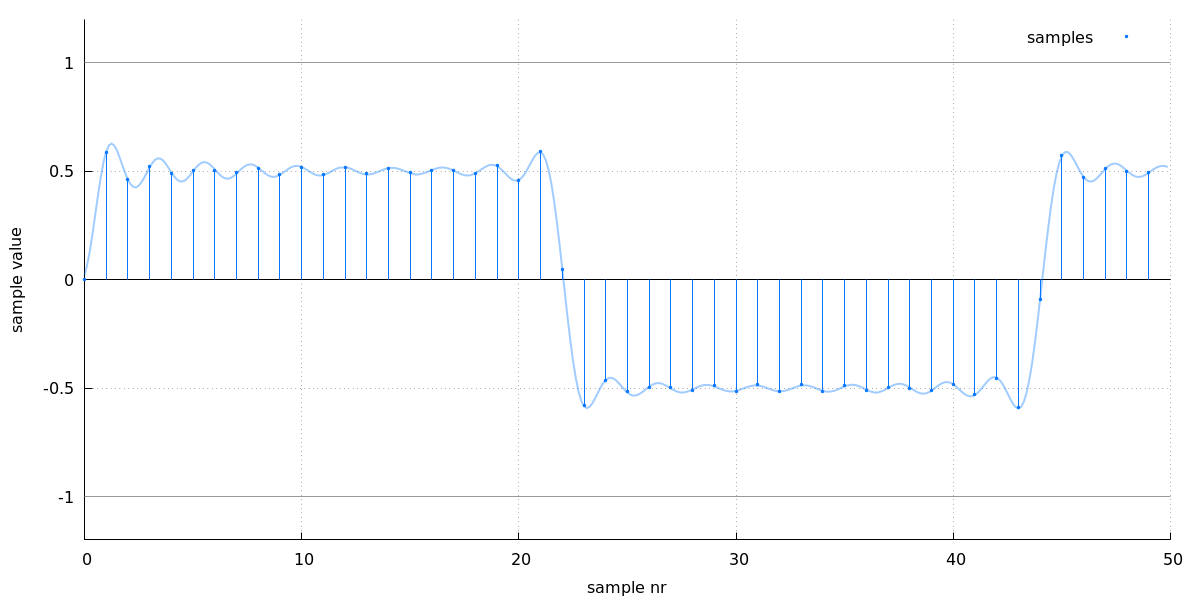
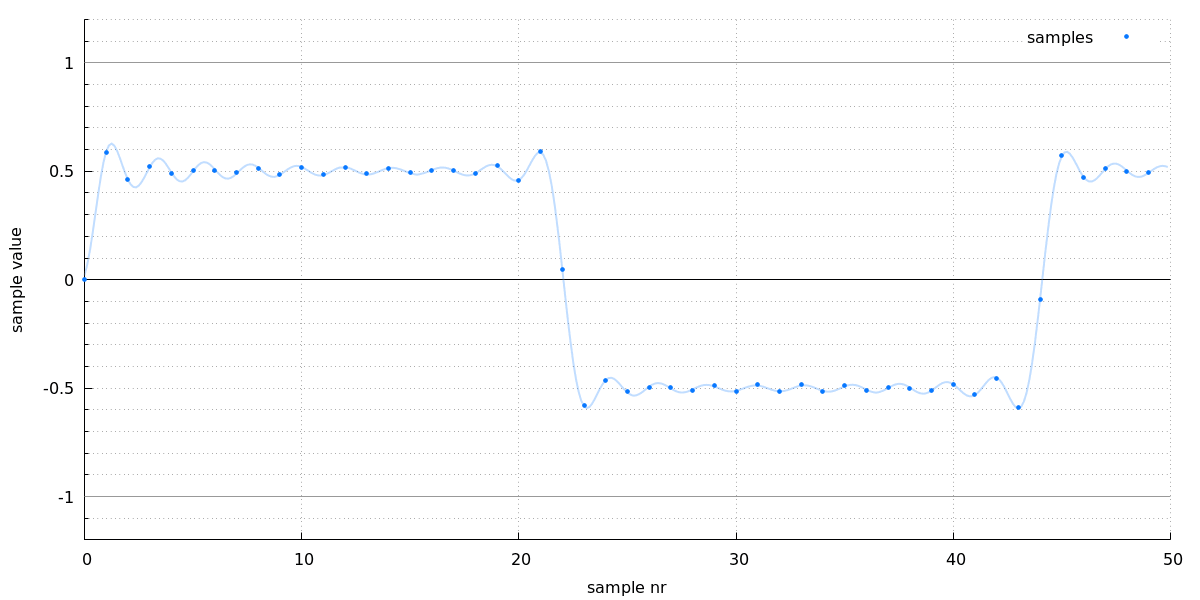
Update README.md.

Changed region(s): [[0.4933, 0.63, 0.8633, 0.69], [0.1233, 0.27, 0.4625, 0.33], [0.8942, 0.27, 0.9558, 0.3]]

diff --git a/README.md b/README.md
@@ -17,37 +17,47 @@ The simplest invocation is:
 
 ![the simplest invocation](examples/some_audio.png)
 
+With stems and time on X axis:
+
+    ]$ plot_audio_samples -i some_audio.flac --with-stems --plot-time u
+
+![with stems and time](examples/with_stems_and_time.png)
+
 # Command line options
 
 Here's the full help:
 
     ]$ plot_audio_samples -h
-    Usage:
-      plot_audio_samples -i INPUT_FILE [optional arguments]
+	Usage:
+	  plot_audio_samples -i INPUT_FILE [optional arguments]
 
-      Required:
-        -i | --input INPUT_FILE     - input file
+	  Required:
+		-i | --input INPUT_FILE     - input file
 
-      Optional:
-        -o | --output OUTPUT_FILE   - output file (default is same as input with the
-                                      extension changed to "png")
-        -f | --force                - force overwrite output file
-        --gp-commands               - don't invoke gnuplot, just print gnuplot
-                                      commands to stdout
+	  Optional:
+		-o | --output OUTPUT_FILE   - output file (default is same as input with the
+									  extension changed to "png")
+		-F | --force-overwrite      - force overwrite output file
+		--gp-commands               - don't invoke gnuplot, just print gnuplot
+									  commands to stdout
 
-        -s | --start START_POS      - start position in samples     (default: 0)
-        -l | --length LENGTH        - length in samples             (default: 50)
-        -t | --title TITLE          - title
-        --size SIZE                 - size of the graph (default is medium)
+		-s | --start START_POS      - start position in samples     (default: 0)
+		-l | --length LENGTH        - length in samples             (default: 50)
+		-t | --title TITLE          - title
+		--size SIZE                 - size of the graph (default is medium)
+		--with-stems                - plot vertical stems for each sample
+		--plot-time u|m             - plot time on X axis, in micro- or milliseconds
 
-        -h | --help                 - this help message
+		-h | --help                 - this help message
 
-    Plot the samples and upsampled waveform of the first channel from the input file.
+	Plot the samples and upsampled waveform of the first channel from the input file.
 
-    The input file is upsampled 8x to obtain data for the waveform.
+	The input file is upsampled 8x to obtain data for the waveform.
 
-    SIZE can be either a keyword or an actual size in format WIDTHxHEIGHT. Possible
-    keywords and corresponding sizes:
-      small:        800x400
-      medium:       1200x600
-      large | big:  1600x800
+	SIZE can be either a keyword or an actual size in format WIDTHxHEIGHT. Possible
+	keywords and corresponding sizes:
+	  small:        800x400
+	  medium:       1200x600
+	  large | big:  1600x800
+
+
